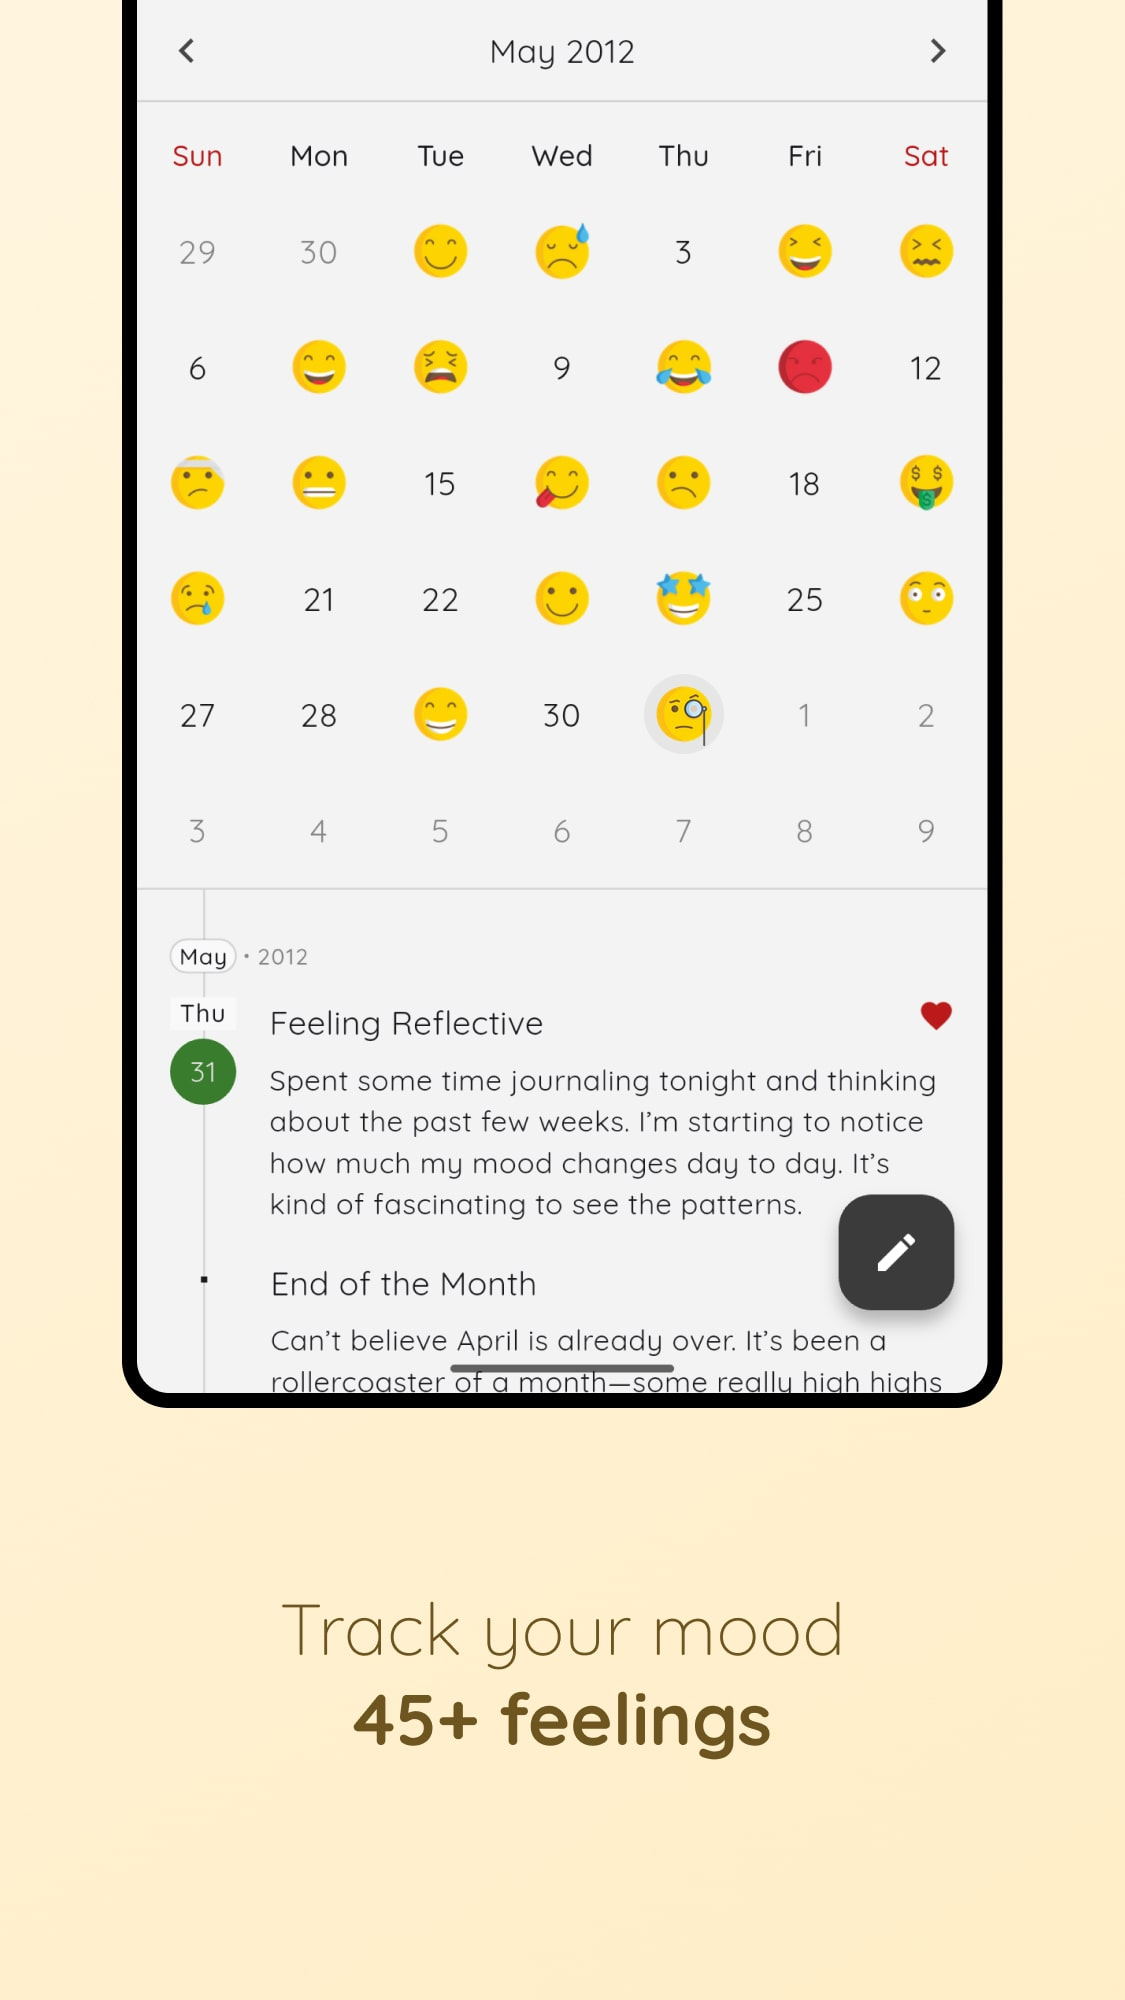
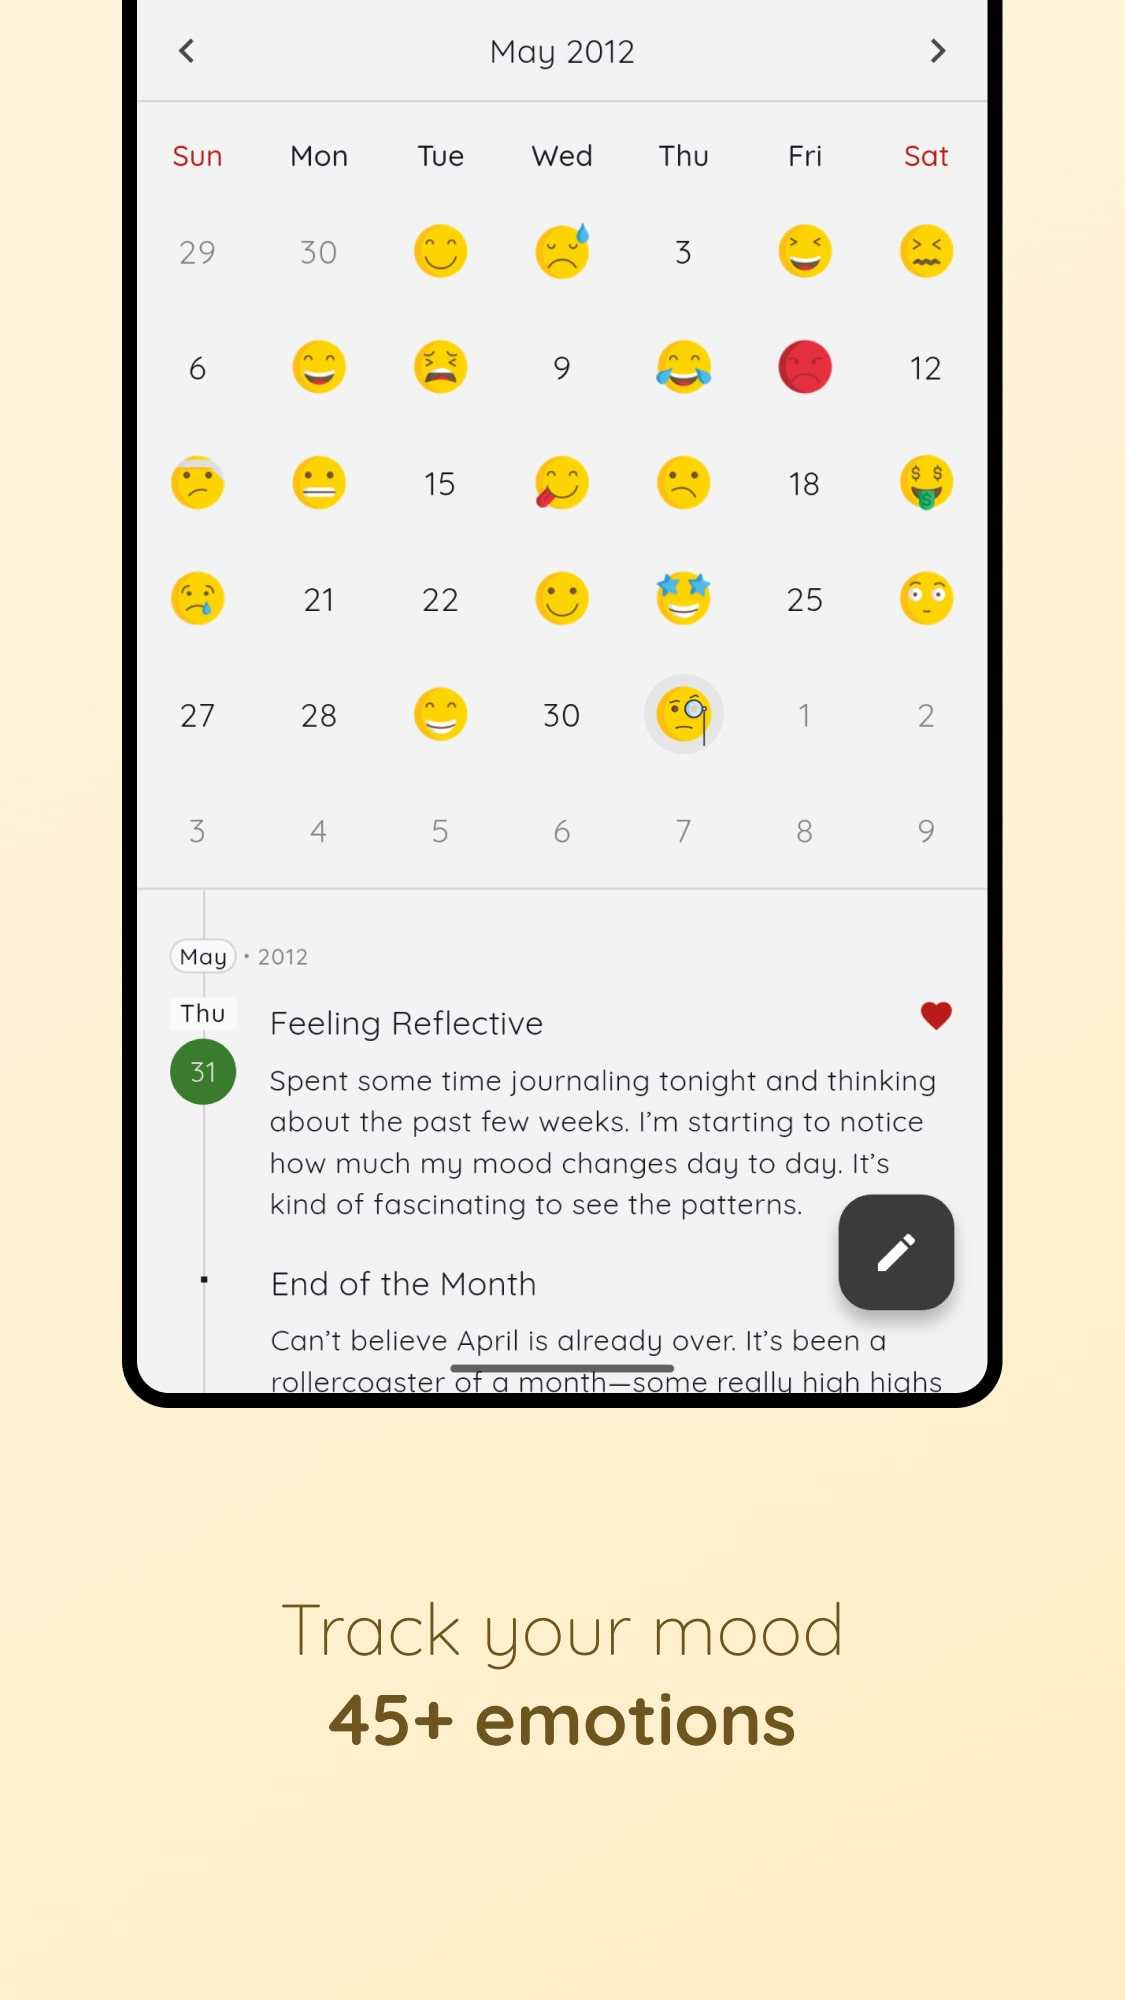
Add meta image to landing page

Changed region(s): [[0.28, 0.837, 0.7156, 0.899]]

diff --git a/docs/_layouts/landing.html b/docs/_layouts/landing.html
@@ -135,18 +135,20 @@
     </div>
 
     <div class="screenshots">
-      <img src="/assets/posters/v1 Frame1-min.jpg?v2" alt="Screenshot 1">
-      <img src="/assets/posters/v1 Frame2-min.jpg?v2" alt="Screenshot 2">
-      <img src="/assets/posters/v1 Frame3-min.jpg?v2" alt="Screenshot 3">
-      <img src="/assets/posters/v1 Frame4-min.jpg?v2" alt="Screenshot 4">
-      <img src="/assets/posters/v1 Frame5-min.jpg?v2" alt="Screenshot 5">
-      <img src="/assets/posters/v1 Frame6-min.jpg?v2" alt="Screenshot 6">
-      <img src="/assets/posters/v1 Frame7-min.jpg?v2" alt="Screenshot 7">
+      <img src="/assets/posters/v1 Frame1-min.jpg?v3" alt="Screenshot 1">
+      <img src="/assets/posters/v1 Frame2-min.jpg?v3" alt="Screenshot 2">
+      <img src="/assets/posters/v1 Frame3-min.jpg?v3" alt="Screenshot 3">
+      <img src="/assets/posters/v1 Frame4-min.jpg?v3" alt="Screenshot 4">
+      <img src="/assets/posters/v1 Frame5-min.jpg?v3" alt="Screenshot 5">
+      <img src="/assets/posters/v1 Frame6-min.jpg?v3" alt="Screenshot 6">
+      <img src="/assets/posters/v1 Frame7-min.jpg?v3" alt="Screenshot 7">
     </div>
   </div>
 
   <div class="footer">
-    <a href="/privacy-policy/storypad">Privacy Policy</a> | <a href="/faq">FAQ</a>
+    <a href="/privacy-policy/storypad">Privacy Policy</a> |
+    <a href="/faq">FAQ</a> |
+    <a href="https://github.com/theachoem/storypad" target="_blank">GitHub</a>
   </div>
 </body>
 

diff --git a/docs/index.md b/docs/index.md
@@ -1,4 +1,5 @@
 ---
 layout: landing
 title: StoryPad - Write Your Story
+image: /assets/meta_image_v1.jpg
 ---
